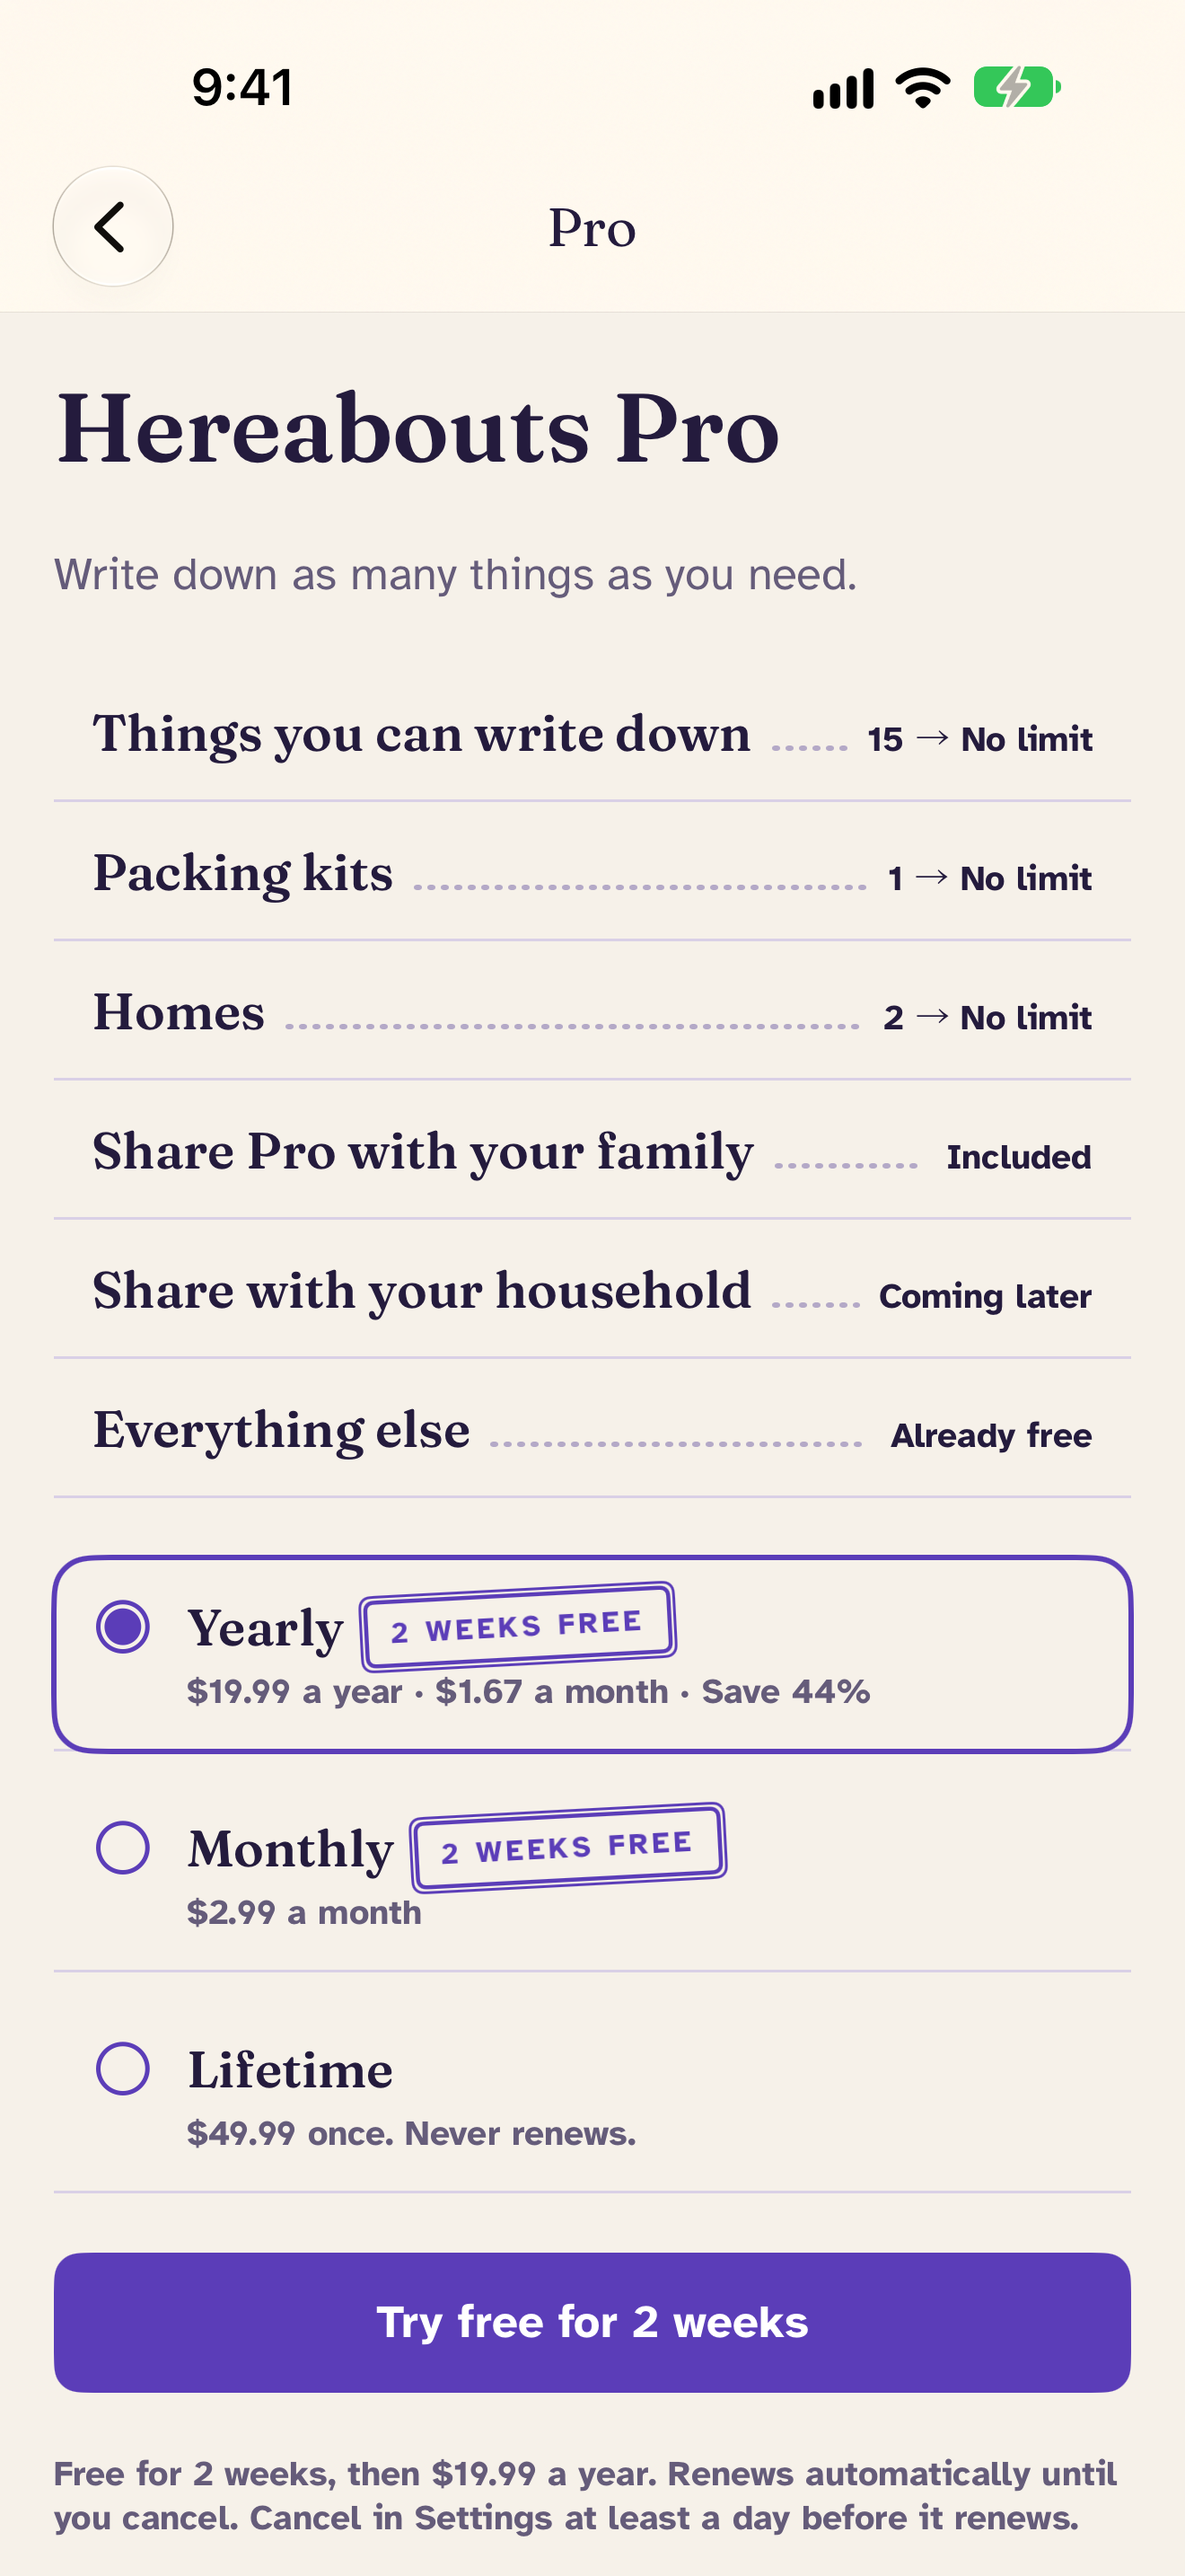
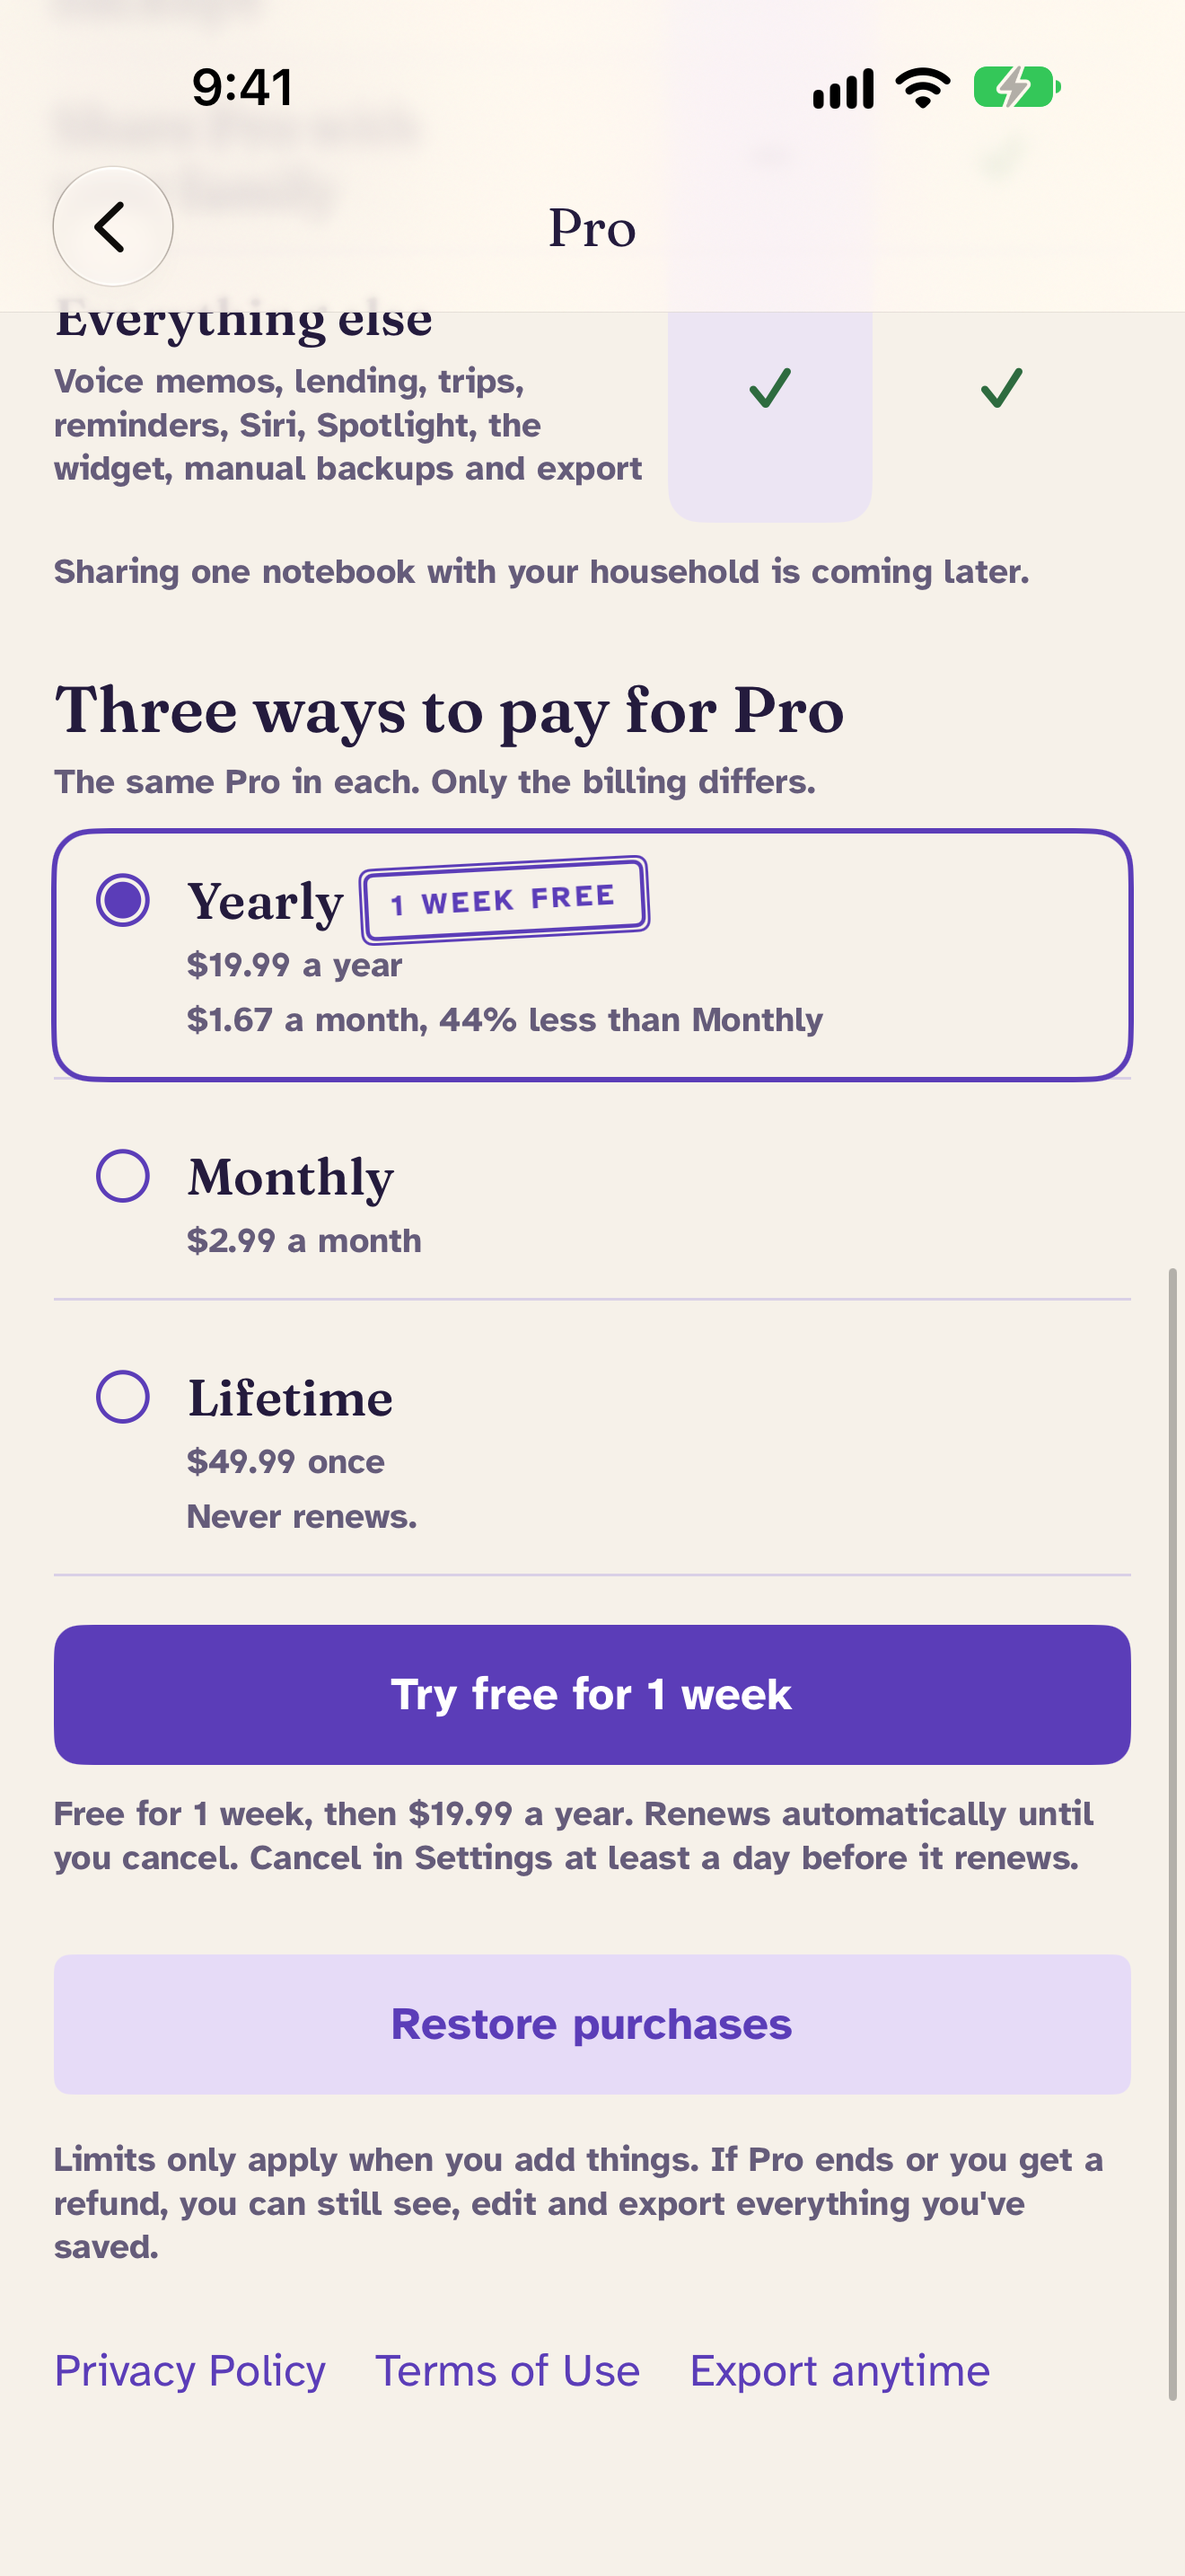
Docs: the redesigned Pro screen in the plan, review notes and walkthrough
The feature plan describes the plan card, the Free and Pro table and the ways
to pay. The review notes say what the Pro screen shows, the walkthrough
follows the new layout and the introduction's line, and the screenshot list's
shot 5 is the Places screen. The products' review screenshot is retaken with
the ways to pay at the top.

diff --git a/Docs/BETA_AND_RELEASE.md b/Docs/BETA_AND_RELEASE.md
@@ -110,7 +110,7 @@ Use the demo library with the Debug-only launch argument `--demo-library` on the
 2. **Voice memo** with the heard sentence and the filled-in Put away screen. Caption: "Say where it is. Check it. Save it."
 3. **Lending** showing a lent thing with its ask-back date. Caption: "Know who to ask for it back".
 4. **Trip detail** with packing progress. Caption: "Reuse your packing list".
-5. **Pro screen** (Settings tab, Hereabouts Pro), with no price visible that isn't the App Store's. Caption: "No account. Always yours to export".
+5. **Places** showing a room with a box inside. Caption: "Every room, shelf and box". *(Changed 10 November: the Pro screen showed US prices in every country's listing, so it is kept only as the products' review screenshot, `Docs/Store/Review/pro.png`.)*
 
 Voice memos ship (owner, 8 November), so shot 2 stays.
 
@@ -126,7 +126,7 @@ Paste into App Store Connect, App Review Information. These notes carry no price
 >
 > Pro includes automatic weekly backups of the whole notebook. They're on by default and go to the person's own iCloud Drive, or the device if iCloud Drive is off. The newest five are kept. Subscriptions also include regular updates. Household sharing is planned for version 1.1. If Pro ends, saved data remains visible, editable and exportable.
 >
-> To reach the paywall, open Settings (the tab at the bottom right on iPhone, or in the sidebar on iPad), then tap Hereabouts Pro. Restore purchases, Privacy Policy and Terms of Use are on the same screen. Purchases can be tested in the sandbox. Adding a 16th thing on the free plan also opens the paywall.
+> To reach the paywall, open Settings (the tab at the bottom right on iPhone, or in the sidebar on iPad), then tap Hereabouts Pro. The screen shows the current plan, what Free and Pro each include, and the three ways to pay. Restore purchases, Privacy Policy and Terms of Use are on the same screen. Purchases can be tested in the sandbox. Adding a 16th thing on the free plan also opens the paywall.
 >
 > Shelf photos and voice understanding use Apple's on-device model on devices that support Apple Intelligence. On other devices, the app uses simpler rules. Voice memos are transcribed on the device with Apple's Speech framework. The recording isn't kept. Nothing is saved until the person taps Save.
 >
@@ -143,13 +143,13 @@ Replace both links if the domain changes.
 Ten steps from a fresh install to the paywall and back, for the review notes' reader and for the owner's own rehearsal (M45):
 
 1. Install the build on a clean phone and open Hereabouts. The introduction appears.
-2. Page through the introduction and tap through to the Find tab. No account or permission is asked for.
+2. Page through the introduction and tap through to the Find tab. No account or permission is asked for, and no plan is chosen: page 2 says the first 15 things are free and that the plan can be changed in Settings.
 3. Add a first thing by name, for example "Spare key", and save it.
 4. Add a place for it, for example "Hall shelf", and put the thing there.
 5. Go back to Find and search "key". The thing appears with its place.
 6. Open the Settings tab (bottom right) and check the four tabs: Find, Places, Trips, Settings.
-7. In Settings, tap Hereabouts Pro. The paywall shows the plans with the price from the App Store, the trial terms, that it renews automatically, Restore purchases, and the Privacy Policy and Terms of Use links.
-8. In the sandbox, buy a plan (or tap Restore purchases). The screen says Pro is on.
+7. In Settings, tap Hereabouts Pro. The screen shows, from the top: your plan (Free, with how many things, kits and homes are used); Free and Pro side by side; and the three ways to pay, each with the price from the App Store, the yearly trial, that it renews automatically, Restore purchases, and the Privacy Policy and Terms of Use links.
+8. In the sandbox, buy a plan (or tap Restore purchases). The plan card at the top changes to Pro, with the plan, when it renews and the price.
 9. Go back to Find and add things until the free limit would have been reached. With Pro on there is no limit. On a fresh install without Pro, the 16th thing opens the same paywall instead.
 10. Close the paywall and return to Find. Everything saved is still there.
 

diff --git a/Docs/FEATURE_PLAN.md b/Docs/FEATURE_PLAN.md
@@ -84,6 +84,13 @@ Phase A is about 9 sessions and Phase B about 10, plus the testing weeks. A1 com
 
 Settings keeps "Free plan · 14 of 20 things". The thing editor adds a quiet line when three or fewer free places are left.
 
+**Redesigned 10 November (owner).** The screen didn't make clear which plans there are, which one you're on, or what each gives, so it now has three parts, with no "·" anywhere:
+- **Your plan**, a card at the top: Free with "9 of 15" things, kits and homes (amber when over a limit, as after Pro ends), or Pro with how it was paid, when it renews or ends, and the price. A trial shows when it ends and what comes after. Family Sharing shows "Shared by: Your family".
+- **Free and Pro**, side by side: things, packing kits and homes (15, 1 and 2, or no limit), weekly automatic backups and sharing Pro with family on Pro only, and everything else on both. The column you're on is shaded and marked "Your plan". Household sharing is noted as coming later.
+- **Ways to pay** (only without Pro): yearly with its free week and its saving, monthly, and Lifetime, then the button and the terms. A subscriber sees Manage subscription instead.
+
+Settings now says "Free plan, 14 of 15 things". The introduction doesn't ask for a plan: page 2 says "Your first 15 things are free. You can change your plan anytime in Settings." The mock is on the canvas (claude.ai artifact 2TY7mZmJZJYPgm9LoNTNYW). `PlanCard.make` is tested in `SubscriptionTests.testPlanCard`.
+
 **How.**
 - `Purchases/ProAccess.swift`
   - Load three products. Pro is unlocked by any verified, unrevoked entitlement: the lifetime purchase, or a subscription that is active or in its grace period.

diff --git a/Docs/Store/README.md b/Docs/Store/README.md
@@ -12,9 +12,9 @@ xcrun simctl ui <device> appearance light
 TEST_RUNNER_STORE_SHOTS=/private/tmp/hb-store xcodebuild -project Localiser.xcodeproj -scheme Localiser -testPlan Localiser -destination 'platform=iOS Simulator,id=<device>' -only-testing:LocaliserUITests/LocaliserUITests/testStoreScreenshots test
 ```
 
-The test also writes `review-*` design-review shots to the same folder. They are not for the store, except `review-pro.png`, which becomes `Review/pro.png`.
+The test also writes `review-*` design-review shots to the same folder. They are not for the store, except `review-pro.png`, which becomes `Review/pro.png`. Since the Pro screen was redesigned (10 November) it opens on your plan and Free and Pro side by side, so for this shot the test scrolls the ways to pay to the top: App Review checks the plans, the prices and the trial terms.
 
-The iPad and Duo shots come from a separate test, in portrait. `STORE_SHOTS` is the folder, and the test writes the five files straight into it:
+The iPad and Duo shots come from a separate test, in portrait. `STORE_SHOTS` is the folder, and the test writes the five files straight into it, then `review-pro.png` and `review-pro-more.png` of the Pro screen for checking the wide layout (not for the store):
 
 ```bash
 xcrun simctl ui <ipad> appearance light
